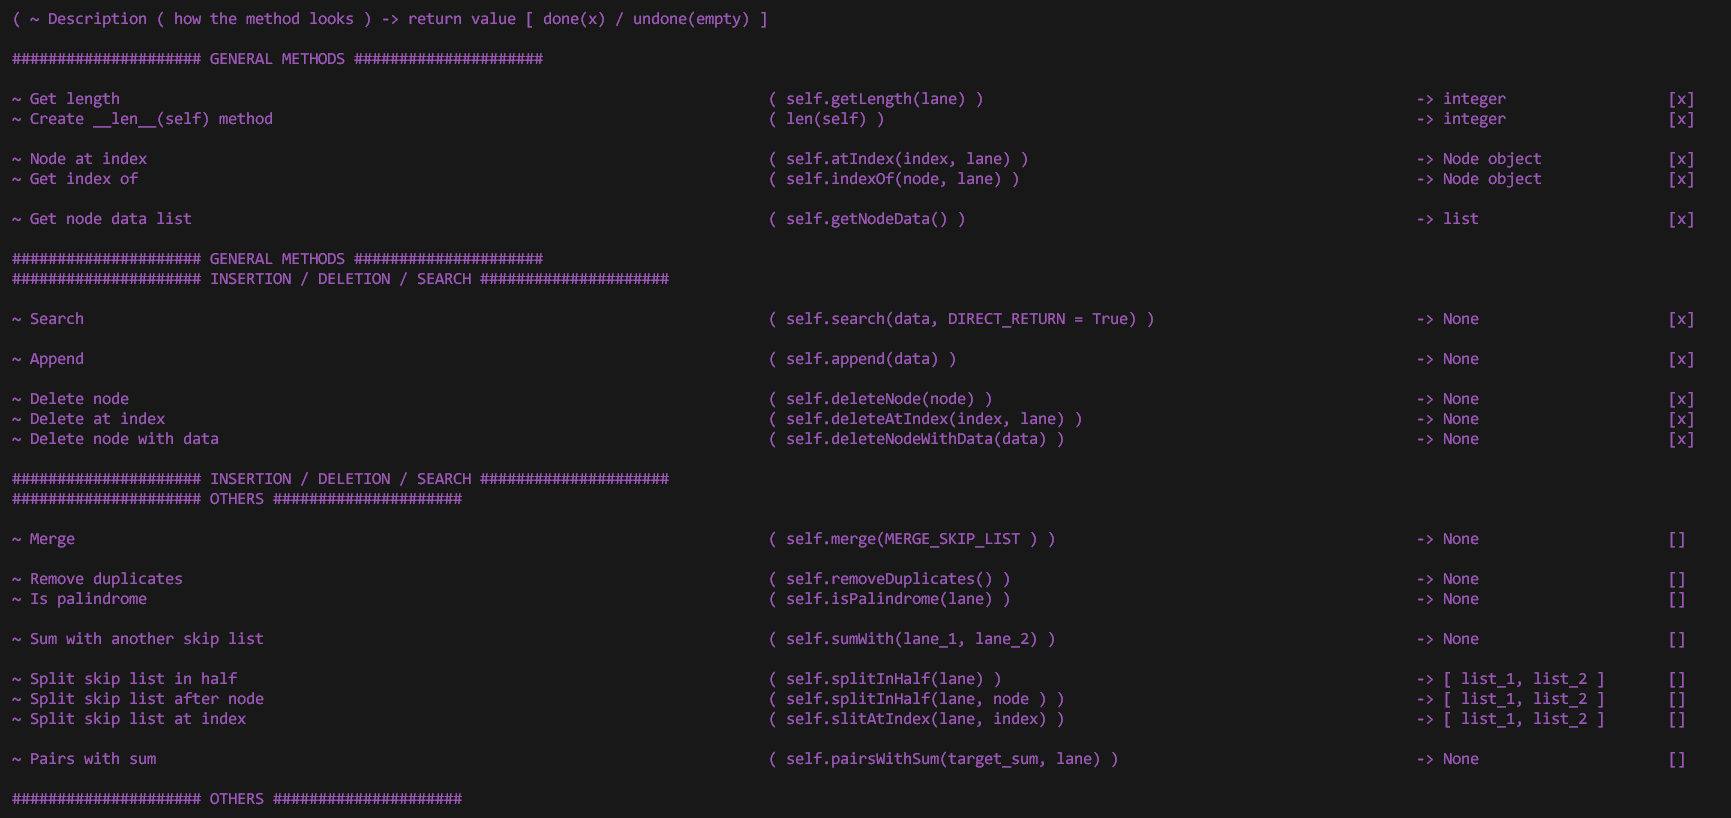
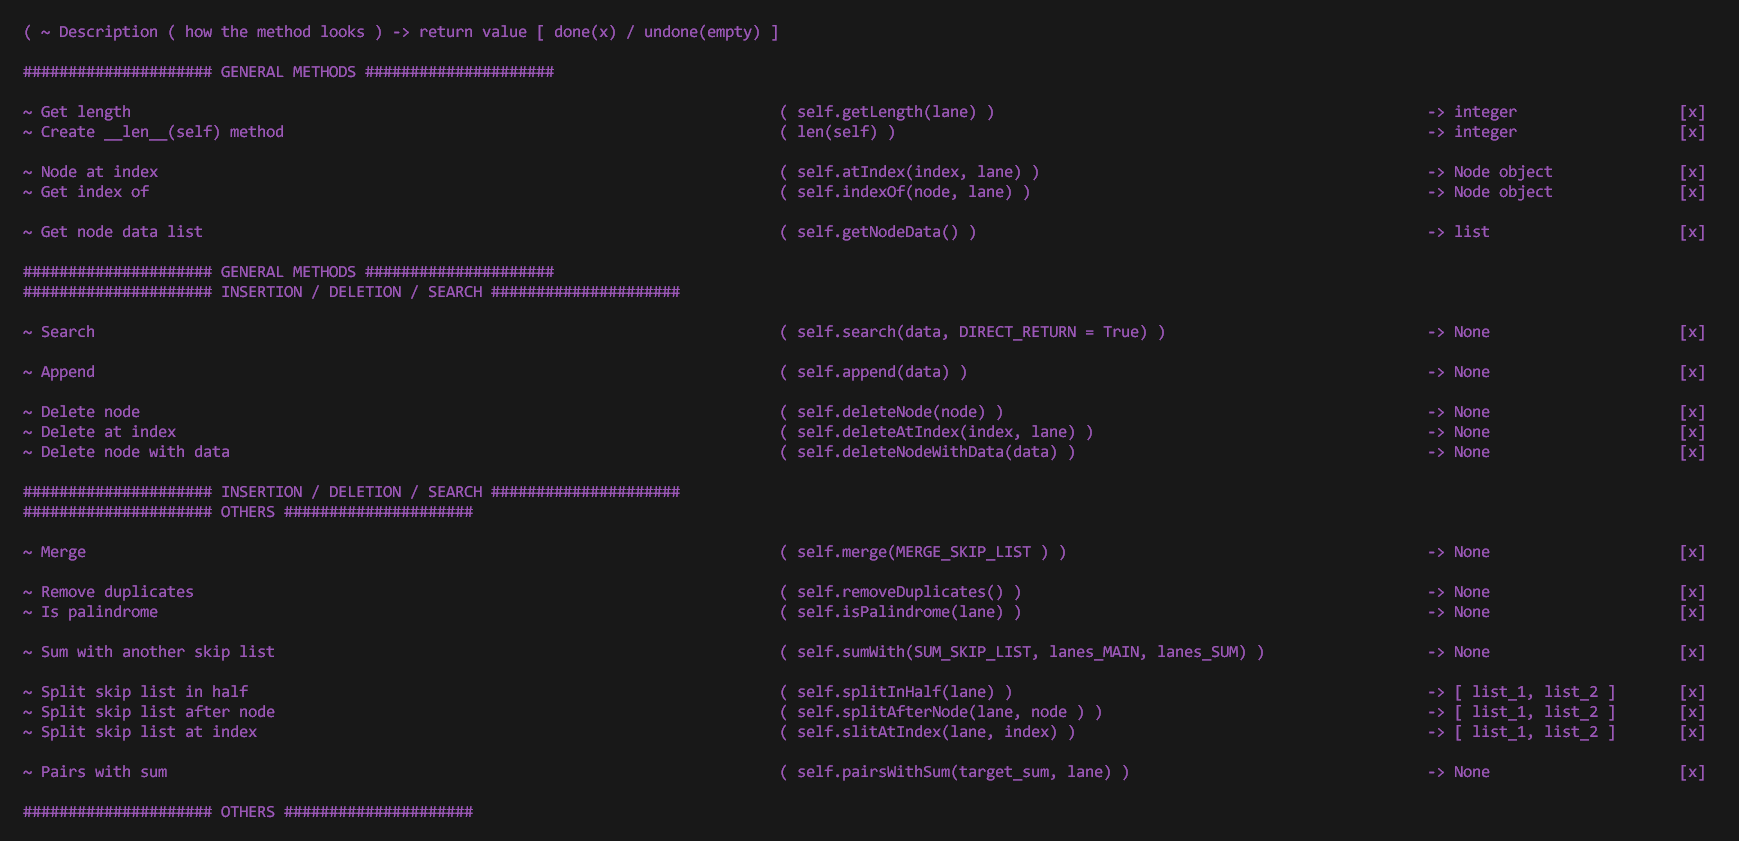
Skip List - 5 Lanes - Final Code

diff --git a/Data structures ( code in python )/Linear Data Structures/Skip List ( Python Code )/SkipList_5Lanes_FinalCode.py b/Data structures ( code in python )/Linear Data Structures/Skip List ( Python Code )/SkipList_5Lanes_FinalCode.py
@@ -41,18 +41,18 @@ class SkipList(object):
         ##################### INSERTION / DELETION / SEARCH #####################
         ##################### OTHERS #####################
 
-        ~ Merge                                                                             ( self.merge(MERGE_SKIP_LIST ) )                                        -> None                     []
+        ~ Merge                                                                             ( self.merge(MERGE_SKIP_LIST ) )                                        -> None                     [x]
 
-        ~ Remove duplicates                                                                 ( self.removeDuplicates() )                                             -> None                     []
-        ~ Is palindrome                                                                     ( self.isPalindrome(lane) )                                             -> None                     []
+        ~ Remove duplicates                                                                 ( self.removeDuplicates() )                                             -> None                     [x]
+        ~ Is palindrome                                                                     ( self.isPalindrome(lane) )                                             -> None                     [x]
 
-        ~ Sum with another skip list                                                        ( self.sumWith(SUM_SKIP_LIST, lanes_MAIN, lanes_SUM) )                  -> None                     []
+        ~ Sum with another skip list                                                        ( self.sumWith(SUM_SKIP_LIST, lanes_MAIN, lanes_SUM) )                  -> None                     [x]
 
-        ~ Split skip list in half                                                           ( self.splitInHalf(lane) )                                              -> [ list_1, list_2 ]       []
-        ~ Split skip list after node                                                        ( self.splitAfterNode(lane, node ) )                                    -> [ list_1, list_2 ]       []
-        ~ Split skip list at index                                                          ( self.slitAtIndex(lane, index) )                                       -> [ list_1, list_2 ]       []
+        ~ Split skip list in half                                                           ( self.splitInHalf(lane) )                                              -> [ list_1, list_2 ]       [x]
+        ~ Split skip list after node                                                        ( self.splitAfterNode(lane, node ) )                                    -> [ list_1, list_2 ]       [x]
+        ~ Split skip list at index                                                          ( self.slitAtIndex(lane, index) )                                       -> [ list_1, list_2 ]       [x]
 
-        ~ Pairs with sum                                                                    ( self.pairsWithSum(target_sum, lane) )                                 -> None                     []
+        ~ Pairs with sum                                                                    ( self.pairsWithSum(target_sum, lane) )                                 -> None                     [x]
     
         ##################### OTHERS #####################
 
